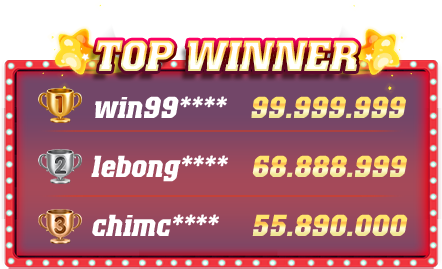
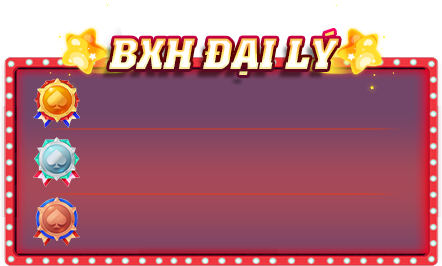
fix css

diff --git a/index.html b/index.html
@@ -22,11 +22,64 @@
     <div class="container-fluid background-image l4_container">
         <div class="row l4_top">
             <div class="col-lg-3 col-md-0 l4_leaderBoard">
-                <div class="playerLeaderBoard">
+                <div class="l4_playerLeaderBoard">
                     <img src="assets/images/l4_player-leaderboard.png" alt="do99" />
+                    <div class="l4_leaderBoardContent">
+                        <div class="l4_leaderBoardRow">
+                            <span class="l4_leaderBoardTitle">
+                                Player12***
+                            </span>
+                            <span class="l4_leaderBoardScore">
+                                12,999,999
+                            </span>
+                        </div>
+                        <div class="l4_leaderBoardRow">
+                            <span class="l4_leaderBoardTitle">
+                                Player34***
+                            </span>
+                            <span class="l4_leaderBoardScore">
+                                34,999,999
+                            </span>
+                        </div>
+                        <div class="l4_leaderBoardRow">
+                            <span class="l4_leaderBoardTitle">
+                                Player56***
+                            </span>
+                            <span class="l4_leaderBoardScore">
+                                56,999,999
+                            </span>
+                        </div>
+                    </div>
+
                 </div>
-                <div class="dealerLeaderBoard">
+                <div class="l4_dealerLeaderBoard">
                     <img src="assets/images/l4_dealer-leaderboard.png" alt="do99" />
+                    <div class="l4_leaderBoardContent">
+                        <div class="l4_leaderBoardRow">
+                            <span class="l4_leaderBoardTitle">
+                                Winer12***
+                            </span>
+                            <span class="l4_leaderBoardScore">
+                                12,999,999
+                            </span>
+                        </div>
+                        <div class="l4_leaderBoardRow">
+                            <span class="l4_leaderBoardTitle">
+                                Winer34***
+                            </span>
+                            <span class="l4_leaderBoardScore">
+                                34,999,999
+                            </span>
+                        </div>
+                        <div class="l4_leaderBoardRow">
+                            <span class="l4_leaderBoardTitle">
+                                Winer56***
+                            </span>
+                            <span class="l4_leaderBoardScore">
+                                56,999,999
+                            </span>
+                        </div>
+                    </div>
                 </div>
             </div>
             <div class="col-lg-6 col-md-12 l4_main">

diff --git a/landing-4.html b/landing-4.html
@@ -22,11 +22,64 @@
     <div class="container-fluid background-image l4_container">
         <div class="row l4_top">
             <div class="col-lg-3 col-md-0 l4_leaderBoard">
-                <div class="playerLeaderBoard">
+                <div class="l4_playerLeaderBoard">
                     <img src="assets/images/l4_player-leaderboard.png" alt="do99" />
+                    <div class="l4_leaderBoardContent">
+                        <div class="l4_leaderBoardRow">
+                            <span class="l4_leaderBoardTitle">
+                                Player12***
+                            </span>
+                            <span class="l4_leaderBoardScore">
+                                12,999,999
+                            </span>
+                        </div>
+                        <div class="l4_leaderBoardRow">
+                            <span class="l4_leaderBoardTitle">
+                                Player34***
+                            </span>
+                            <span class="l4_leaderBoardScore">
+                                34,999,999
+                            </span>
+                        </div>
+                        <div class="l4_leaderBoardRow">
+                            <span class="l4_leaderBoardTitle">
+                                Player56***
+                            </span>
+                            <span class="l4_leaderBoardScore">
+                                56,999,999
+                            </span>
+                        </div>
+                    </div>
+
                 </div>
-                <div class="dealerLeaderBoard">
+                <div class="l4_dealerLeaderBoard">
                     <img src="assets/images/l4_dealer-leaderboard.png" alt="do99" />
+                    <div class="l4_leaderBoardContent">
+                        <div class="l4_leaderBoardRow">
+                            <span class="l4_leaderBoardTitle">
+                                Winer12***
+                            </span>
+                            <span class="l4_leaderBoardScore">
+                                12,999,999
+                            </span>
+                        </div>
+                        <div class="l4_leaderBoardRow">
+                            <span class="l4_leaderBoardTitle">
+                                Winer34***
+                            </span>
+                            <span class="l4_leaderBoardScore">
+                                34,999,999
+                            </span>
+                        </div>
+                        <div class="l4_leaderBoardRow">
+                            <span class="l4_leaderBoardTitle">
+                                Winer56***
+                            </span>
+                            <span class="l4_leaderBoardScore">
+                                56,999,999
+                            </span>
+                        </div>
+                    </div>
                 </div>
             </div>
             <div class="col-lg-6 col-md-12 l4_main">

diff --git a/assets/css/landing-4.css b/assets/css/landing-4.css
@@ -17,9 +17,13 @@
     justify-content: flex-end;
 }
 
-.l4_playerLeaderBoard {}
+.l4_playerLeaderBoard {
+    position: relative;
+}
 
-.l4_dealerLeaderBoard {}
+.l4_dealerLeaderBoard {
+    position: relative;
+}
 
 .l4_main {
     display: flex;
@@ -52,6 +56,7 @@
 
 .l4_btn {
     cursor: pointer;
+    animation: zoom-in-zoom-out 1s ease infinite;
 }
 
 .l4_bottom {
@@ -175,7 +180,18 @@
     bottom: -17px;
     left: 50%;
     transform: translateX(-50%);
+    cursor: pointer;
 }
+
+.l4_submit :hover {
+    transform: scale(1.1);
+}
+
+.l4_submit :active {
+    transform: scale(1.2);
+}
+
+
 
 .l4_submitRegister {
     display: none;
@@ -184,6 +200,35 @@
 .l4_itemContainer {
     height: 100px;
     /* width: 100px; */
+}
+
+.l4_leaderBoardContent {
+    position: absolute;
+    top: 4.6vw;
+    display: flex;
+    flex-direction: column;
+    gap: 17px;
+    left: 5vw;
+    font-size: 1.5vw;
+    width: 70%;
+}
+
+.l4_leaderBoardRow {
+    display: flex;
+    justify-content: space-between;
+    font-family: UTM Colossalis;
+    font-weight: 800;
+}
+
+.l4_leaderBoardTitle {
+    color: white;
+}
+
+.l4_leaderBoardScore {
+    background: #FCEABB;
+    background: linear-gradient(to top, #FCEABB 0%, #FCCD4D 50%, #F8B500 51%, #FBDF93 100%);
+    -webkit-background-clip: text;
+    -webkit-text-fill-color: transparent;
 }
 
 
@@ -263,6 +308,20 @@
 
     50% {
         transform: scale(1.15, 1.15);
+    }
+
+    100% {
+        transform: scale(1, 1);
+    }
+}
+
+@keyframes zoom-in-zoom-out_mini {
+    0% {
+        transform: scale(1, 1);
+    }
+
+    50% {
+        transform: scale(1.05, 1.05);
     }
 
     100% {
